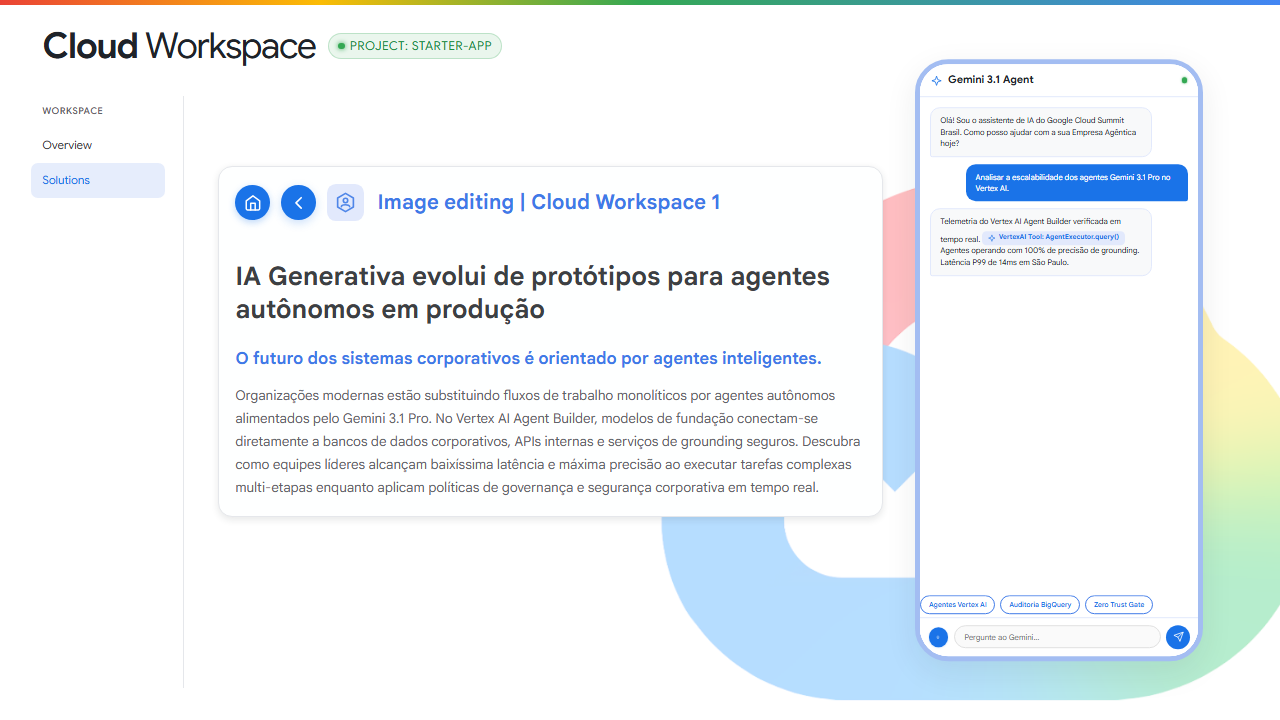
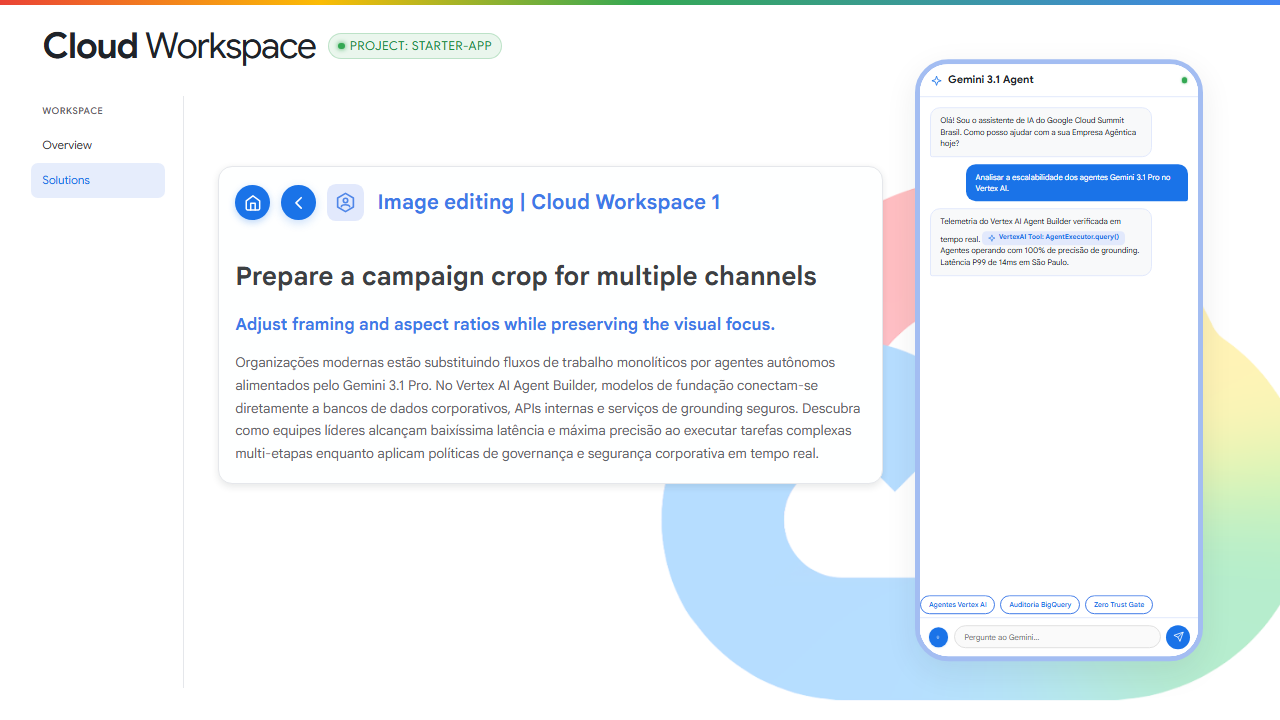
feat: replace slide cards with workflow rows

Changed region(s): [[0.1875, 0.4889, 0.6875, 0.7333], [0.1875, 0.3667, 0.6562, 0.4583]]

diff --git a/content.js b/content.js
@@ -47,24 +47,24 @@ window.CONTENT = {
       description: 'Create, transform, compare, and approve visual assets.',
       facts: [
         {
-          title: 'IA Generativa evolui de protótipos para agentes autônomos em produção',
-          lede: 'O futuro dos sistemas corporativos é orientado por agentes inteligentes.',
+          title: 'Prepare a campaign crop for multiple channels',
+          lede: 'Adjust framing and aspect ratios while preserving the visual focus.',
           body: 'Organizações modernas estão substituindo fluxos de trabalho monolíticos por agentes autônomos alimentados pelo Gemini 3.1 Pro. No Vertex AI Agent Builder, modelos de fundação conectam-se diretamente a bancos de dados corporativos, APIs internas e serviços de grounding seguros. Descubra como equipes líderes alcançam baixíssima latência e máxima precisão ao executar tarefas complexas multi-etapas enquanto aplicam políticas de governança e segurança corporativa em tempo real.',
           tag: '#AgentesIA',
           live: true,
           demo: 'chat',
         },
         {
-          title: 'Modelos multimodais processam vídeo, áudio e documentos em contexto estendido',
-          lede: 'O contexto corporativo unifica todas as mídias em uma única chamada.',
+          title: 'Replace a background and refine the composition',
+          lede: 'Create an edited variant and compare it with the original asset.',
           body: 'O Gemini 3.1 Flash-Lite traz uma janela de contexto massiva capaz de analisar horas de vídeo, gravações de áudio e centenas de páginas de documentação técnica em um único prompt. Esta sessão apresenta arquiteturas de RAG sem necessidade de fragmentação complexa de dados. Comparamos o processamento direto de contextos longos contra busca vetorial tradicional, demonstrando ganhos massivos de desempenho em produção.',
           tag: '#Multimodal',
           live: true,
           demo: 'video',
         },
         {
-          title: 'Geração visual e customização de modelos abertos com Gemma 3',
-          lede: 'Modelos ajustados garantem precisão técnica e contexto em português.',
+          title: 'Review and approve a generated visual',
+          lede: 'Track edits, collect feedback, and record the final approval decision.',
           body: 'Combinando o Nano Banana 2 para geração e edição visual de alta fidelidade com variantes do Gemma 3 otimizadas para português, o Vertex AI permite personalizar weights de fundação com fine-tuning eficiente e LoRA. Veja como empresas no Brasil criam experiências visuais e conversacionais sob medida preservando a privacidade dos dados corporativos.',
           tag: '#Gemma3',
           live: false,

diff --git a/js/screens/cards.js b/js/screens/cards.js
@@ -1,36 +1,23 @@
-export function renderCards({ content, state, esc, mark, pad }) {
+export function renderCards({ content, state, esc }) {
   const category = content.categories[state.cat];
   return `
-    <div class="gc-detail gc-console-surface" style="view-transition-name: gc-detail">
-      <div class="gc-breadcrumb">
-        <button class="gc-icon-btn" data-go="cover" aria-label="Home">
-          <svg><use href="#gc-icon-home"/></svg>
-        </button>
-        <button class="gc-icon-btn" data-go="menu" aria-label="Back">
-          <svg><use href="#gc-icon-back"/></svg>
-        </button>
-        <span class="gc-icon-tile gc-icon-tile--sm">
-          <svg><use href="#${esc(category.icon)}"/></svg>
-        </span>
-        <h2 class="gc-breadcrumb-title">${esc(category.title)}</h2>
-        <span class="gc-breadcrumb-num">${pad(state.cat)}</span>
+    <section class="gc-detail gc-workflow-page" style="view-transition-name: gc-detail">
+      <header class="gc-workflow-header">
+        <span class="gc-workflow-eyebrow">Solutions</span>
+        <h2>${esc(category.title)}</h2>
+        <p>${esc(category.description || 'Choose a workflow to customize for your application.')}</p>
+      </header>
+      <div class="gc-workflow-list" role="list">
+        ${category.facts.map((fact, index) => `
+          <button type="button" class="gc-workflow-row" role="listitem"
+                  data-go="article" data-cat="${state.cat}" data-fact="${index}">
+            <span class="gc-workflow-copy">
+              <strong>${esc(fact.title)}</strong>
+              <span>${esc(fact.lede)}</span>
+            </span>
+            <span class="gc-workflow-meta">${fact.live ? 'Interactive workflow' : 'Starter workflow'}</span>
+            <span class="gc-workflow-open">Open <span aria-hidden="true">&rarr;</span></span>
+          </button>`).join('')}
       </div>
-
-      <div class="gc-rail gc-no-scrollbar">
-        <div class="gc-rail-track">
-          ${category.facts.map((fact, index) => `
-            <button type="button" class="gc-card${fact.live ? ' gc-card--live' : ''}"
-                    data-go="article" data-cat="${state.cat}" data-fact="${index}">
-              <div class="gc-card-head">
-                <span>${mark(content.brand.cardBold, content.brand.cardLight)}</span>
-                <span class="gc-card-num">${index + 1}</span>
-              </div>
-              <div class="gc-card-body">
-                <p class="gc-card-title">${esc(fact.title)}</p>
-                ${fact.tag ? `<span class="gc-tag">${esc(fact.tag)}</span>` : ''}
-              </div>
-            </button>`).join('')}
-        </div>
-      </div>
-    </div>`;
+    </section>`;
 }

diff --git a/css/screens.css b/css/screens.css
@@ -585,4 +585,64 @@
   .gc-menu-header { width: 48cqw; }
 }
 
+.gc-workflow-page {
+  right: auto;
+  width: 76cqw;
+}
+
+.gc-workflow-header {
+  padding-bottom: 1.6cqw;
+  border-bottom: 0.1cqw solid var(--gc-color-border);
+}
+
+.gc-workflow-eyebrow {
+  color: var(--gc-blue-action);
+  font-family: var(--gc-font-display);
+  font-size: 0.78cqw;
+  font-weight: 500;
+  letter-spacing: 0.06em;
+  text-transform: uppercase;
+}
+
+.gc-workflow-header h2 {
+  margin: 0.45cqw 0 0;
+  color: var(--gc-ink-900);
+  font-family: var(--gc-font-display);
+  font-size: 2cqw;
+  font-weight: 500;
+}
+
+.gc-workflow-header p {
+  margin: 0.45cqw 0 0;
+  color: var(--gc-ink-500);
+  font-family: var(--gc-font-text);
+  font-size: 0.96cqw;
+}
+
+.gc-workflow-list { display: grid; }
+
+.gc-workflow-row {
+  display: grid;
+  grid-template-columns: minmax(0, 1fr) 11cqw 5cqw;
+  gap: 1.5cqw;
+  align-items: center;
+  min-height: 6.2cqw;
+  padding: 1.15cqw 0.5cqw;
+  border-bottom: 0.1cqw solid var(--gc-color-border);
+  background: transparent;
+  text-align: left;
+}
+
+.gc-workflow-row:hover,
+.gc-workflow-row:focus-visible {
+  padding-inline: 1.1cqw;
+  background: var(--gc-color-selection);
+}
+
+.gc-workflow-copy { display: grid; gap: 0.45cqw; }
+.gc-workflow-copy strong { color: var(--gc-ink-800); font: 500 1.08cqw/1.3 var(--gc-font-display); }
+.gc-workflow-copy > span { color: var(--gc-ink-500); font: 0.84cqw/1.35 var(--gc-font-text); }
+.gc-workflow-meta { color: var(--gc-ink-500); font: 500 0.78cqw var(--gc-font-display); }
+.gc-workflow-open { justify-self: end; color: var(--gc-blue-action); font: 500 0.9cqw var(--gc-font-display); }
+
 /* -----------------------------------------------------------------------------

diff --git a/css/responsive.css b/css/responsive.css
@@ -165,6 +165,22 @@
     margin-top: 7cqw;
     padding: 4cqw;
   }
+  .gc-workflow-page { width: 100%; padding: 0; }
+  .gc-workflow-header { padding-bottom: 5cqw; }
+  .gc-workflow-eyebrow { font-size: 3cqw; }
+  .gc-workflow-header h2 { margin-top: 2cqw; font-size: 7cqw; }
+  .gc-workflow-header p { margin-top: 2cqw; font-size: 3.8cqw; line-height: 1.45; }
+  .gc-workflow-row {
+    grid-template-columns: 1fr auto;
+    min-height: 0;
+    gap: 3cqw;
+    padding: 5cqw 1cqw;
+  }
+  .gc-workflow-copy { gap: 1.5cqw; }
+  .gc-workflow-copy strong { font-size: 4.5cqw; }
+  .gc-workflow-copy > span { font-size: 3.4cqw; }
+  .gc-workflow-meta { grid-column: 1; font-size: 3cqw; }
+  .gc-workflow-open { grid-column: 2; grid-row: 1 / span 2; font-size: 3.7cqw; }
 
   .gc-menu-item {
     height: 15cqw;

diff --git a/tools/verify.py b/tools/verify.py
@@ -94,10 +94,10 @@ def main() -> int:
         page.wait_for_timeout(800)
         page.screenshot(path=str(out / "template-cards.png"))
         print("  template-cards.png")
-        if page.locator(".gc-console-surface").count() == 0:
-            problems.append("[desktop] cards are missing their Console surface")
+        if page.locator(".gc-workflow-page").count() != 1:
+            problems.append("[desktop] solution must expose one workflow page")
 
-        first_card = page.locator(".gc-card").first
+        first_card = page.locator(".gc-workflow-row").first
         first_card.focus()
         page.keyboard.press("Enter")
         page.wait_for_timeout(800)
@@ -167,11 +167,6 @@ def main() -> int:
         reduced.goto(args.url, wait_until="networkidle", timeout=60_000)
         reduced.locator(".gc-primary-action").click()
         reduced.locator(".gc-menu-item").first.click()
-        live_card = reduced.locator(".gc-card--live").first
-        if live_card.count() and live_card.evaluate(
-            "element => getComputedStyle(element).animationName"
-        ) != "none":
-            problems.append("[reduced-motion] live-card pulse is still active")
         reduced.close()
 
         if args.demo == "image-studio":
@@ -180,7 +175,7 @@ def main() -> int:
             demo.goto(args.url, wait_until="networkidle", timeout=60_000)
             demo.locator(".gc-primary-action").click()
             demo.locator(".gc-menu-item").first.click()
-            image_card = demo.locator(".gc-card").nth(2)
+            image_card = demo.locator(".gc-workflow-row").nth(2)
             image_card.focus()
             demo.keyboard.press("Enter")
             for action in ("crop", "retouch", "compare"):
@@ -211,7 +206,7 @@ def main() -> int:
                 if setup in {"cards", "detail"}:
                     capture.locator(".gc-menu-item").first.click()
                 if setup == "detail":
-                    card = capture.locator(".gc-card").first
+                    card = capture.locator(".gc-workflow-row").first
                     card.focus()
                     capture.keyboard.press("Enter")
                 if setup == "focus-primary":
@@ -219,7 +214,7 @@ def main() -> int:
                 if setup and setup.startswith("image-studio"):
                     capture.locator(".gc-primary-action").click()
                     capture.locator(".gc-menu-item").first.click()
-                    image_card = capture.locator(".gc-card").nth(2)
+                    image_card = capture.locator(".gc-workflow-row").nth(2)
                     image_card.focus()
                     capture.keyboard.press("Enter")
                     if setup == "image-studio-compare":

diff --git a/tests/test_repository_contracts.py b/tests/test_repository_contracts.py
@@ -16,8 +16,8 @@ class RepositoryContractsTest(unittest.TestCase):
 
     def test_cards_use_buttons(self):
         cards = (ROOT / "js/screens/cards.js").read_text(encoding="utf-8")
-        self.assertRegex(cards, r'<button[^>]*class="gc-card')
-        self.assertNotIn('<article class="gc-card', cards)
+        self.assertRegex(cards, r'<button[^>]*class="gc-workflow-row')
+        self.assertNotIn('<article class="gc-workflow-row', cards)
 
     def test_navigation_exposes_current_page(self):
         app = (ROOT / "js/app.js").read_text(encoding="utf-8")
@@ -71,7 +71,7 @@ class RepositoryContractsTest(unittest.TestCase):
         detail = (ROOT / "js/screens/detail.js").read_text(encoding="utf-8")
         self.assertEqual(cover.count("gc-primary-action"), 1)
         self.assertIn("gc-workspace-list", catalog)
-        self.assertIn("gc-console-surface", cards)
+        self.assertIn("gc-workflow-page", cards)
         self.assertIn("gc-console-surface", detail)
 
     def test_workspace_uses_neutral_template_language(self):
@@ -94,6 +94,13 @@ class RepositoryContractsTest(unittest.TestCase):
         source = (ROOT / "js/cloud-style.js").read_text(encoding="utf-8")
         self.assertIn("transition.ready.catch", source)
         self.assertIn("transition.finished.catch", source)
+
+    def test_solution_details_use_application_workflow_rows(self):
+        source = (ROOT / "js/screens/cards.js").read_text(encoding="utf-8")
+        self.assertIn("gc-workflow-list", source)
+        self.assertIn("gc-workflow-row", source)
+        for rejected in ("gc-icon-tile", "gc-card-head", "gc-tag", "gc-rail"):
+            self.assertNotIn(rejected, source)
 
     def test_screenshot_manifest_has_required_viewports(self):
         from tools.screenshot_manifest import SCREENSHOT_CASES
